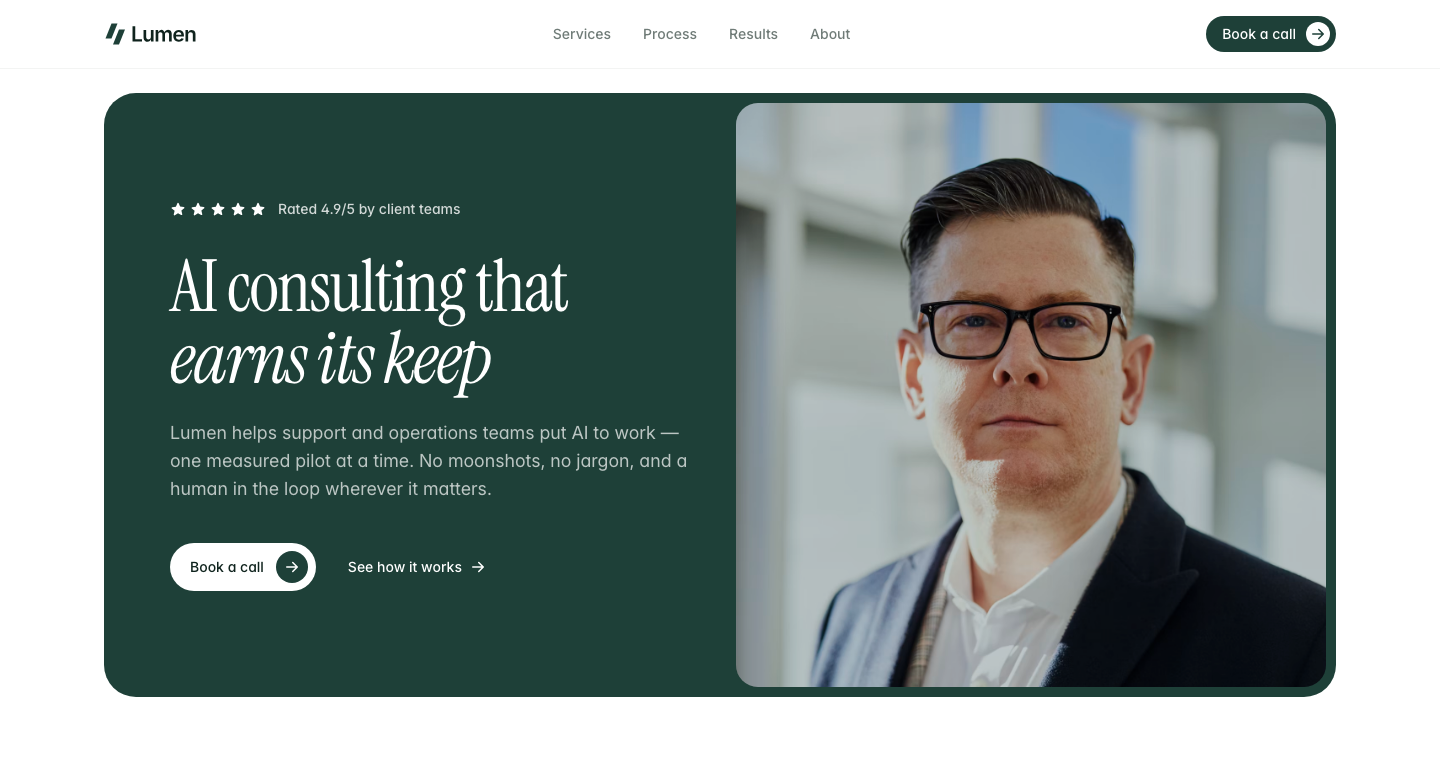
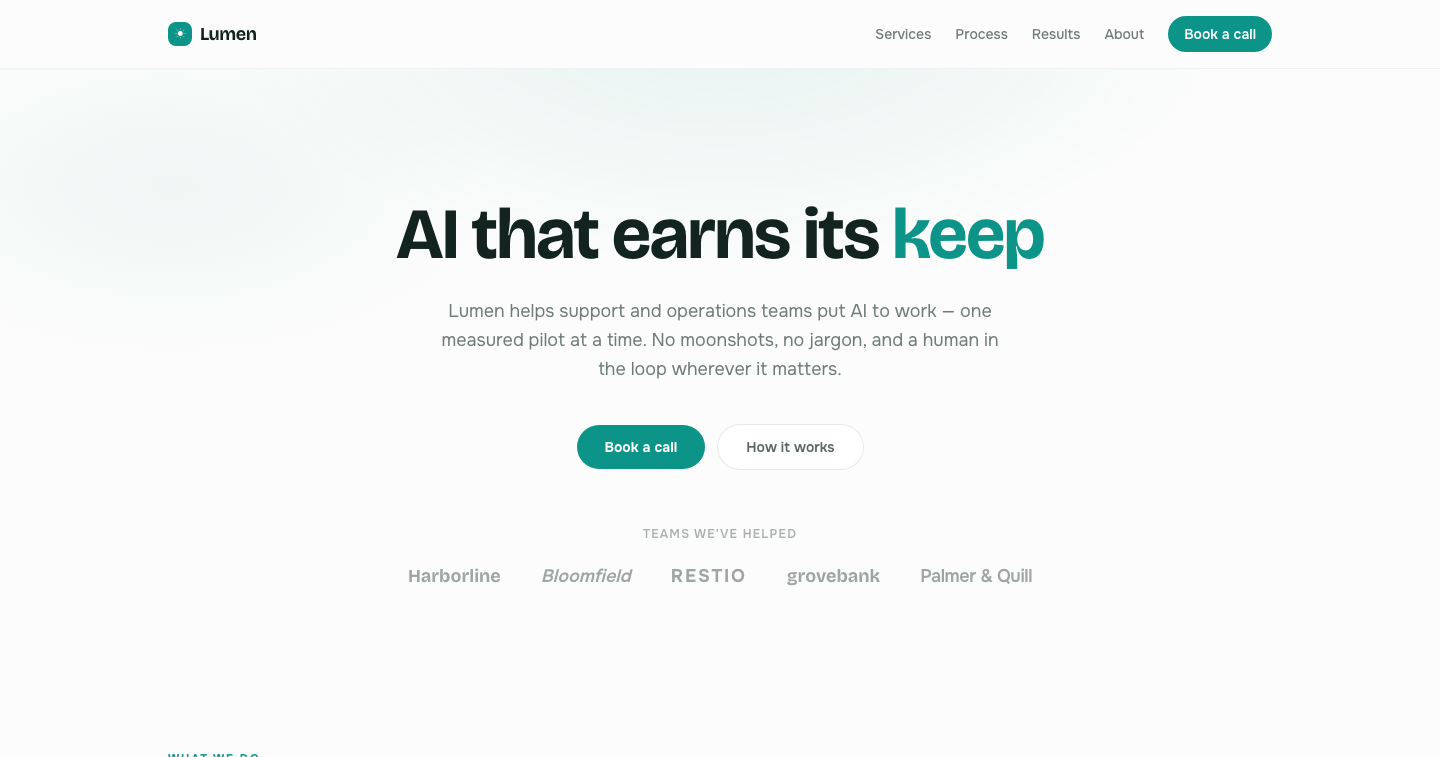
latest

diff --git a/files/resources/views/pages/index.blade.html b/files/resources/views/pages/index.blade.html
@@ -7,7 +7,7 @@
     <section class="px-6 pb-6">
         <!-- On large screens the band fills the viewport below the header (~5.5rem) minus the frame's bottom gutter. -->
         <div class="fade-up flex flex-col overflow-hidden rounded-2xl bg-[#1e4038] lg:min-h-[calc(100svh-7rem)]">
-            <div class="mx-auto grid w-full max-w-7xl flex-1 gap-8 px-6 lg:grid-cols-2">
+            <div class="mx-auto grid w-full max-w-7xl flex-1 gap-8 px-10 lg:grid-cols-2">
                 <div class="flex flex-col justify-center pt-14 sm:pt-16 lg:py-16 lg:pr-4">
                     <div class="flex items-center gap-3">
                         <div class="flex items-center gap-1">
@@ -54,7 +54,7 @@
 
                 <!-- Two-column image marquee — each column holds two identical groups, so sliding one group's height (50%) loops seamlessly. The left column drifts up, the right drifts down a touch slower. -->
                 <div class="relative min-h-80 sm:min-h-96 lg:min-h-[30rem]">
-                    <div class="absolute inset-0 overflow-hidden" aria-hidden="true">
+                    <div class="absolute inset-0" aria-hidden="true">
                         <div class="grid h-full grid-cols-2 gap-5">
                             <div class="animate-marquee-up flex flex-col motion-reduce:animate-none">
                                 <div class="flex flex-col gap-5 pb-5">
@@ -91,7 +91,7 @@
 
             <!-- ============ Logo marquee ============ -->
             <!-- The track holds two identical logo groups, so sliding one group's width (-50%) loops seamlessly. -->
-            <div class="border-t border-white/10">
+            <div class="border-t border-white/10 relative z-50 bg-[#1e4038]/85 backdrop-blur-2xl">
                 <div class="mx-auto flex w-full max-w-7xl flex-col gap-x-10 gap-y-6 px-6 py-8 sm:flex-row sm:items-center">
                     <p class="shrink-0 text-sm font-medium text-white/50">We've partnered with</p>
                     <div class="min-w-0 flex-1 overflow-hidden [mask-image:linear-gradient(to_right,transparent,black_10%,black_90%,transparent)]">